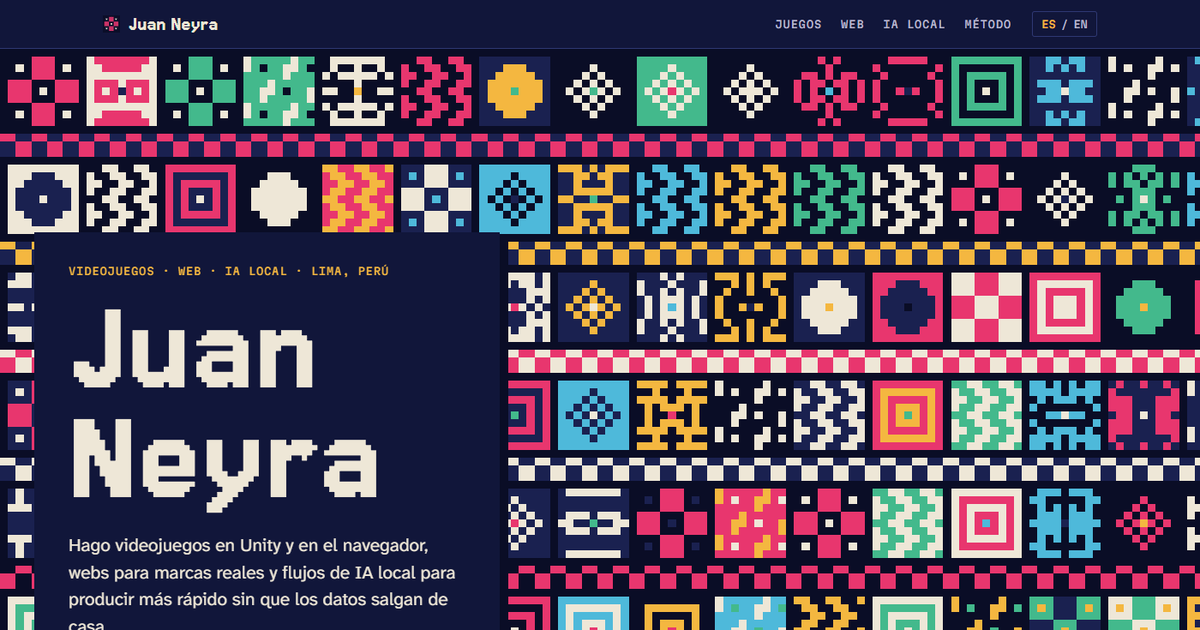
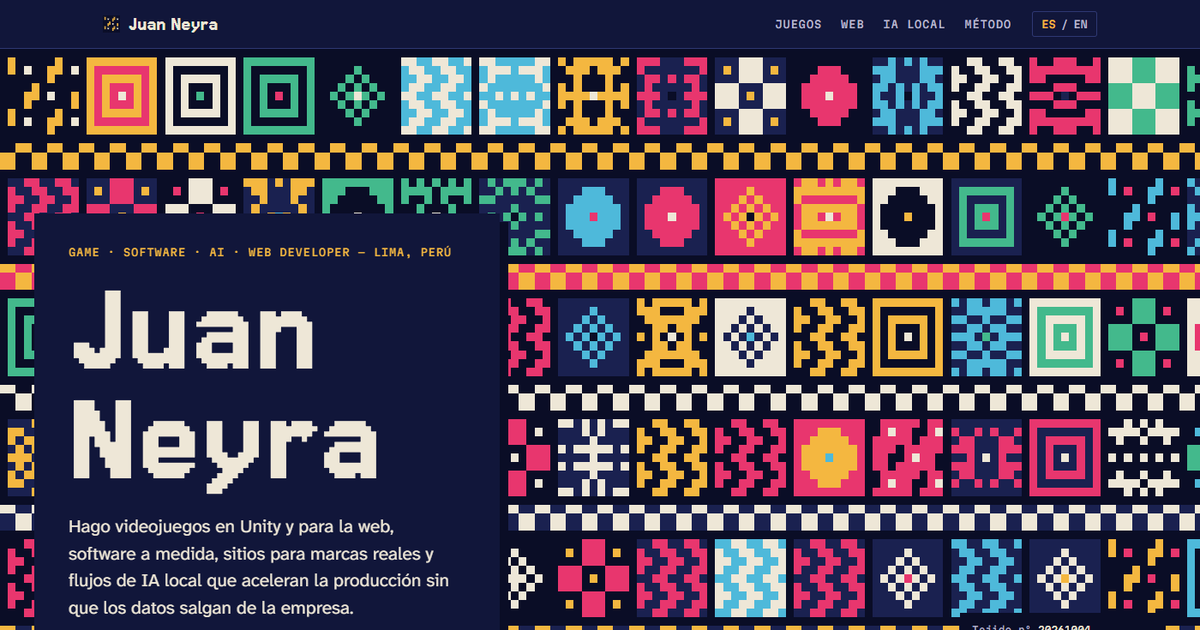
Presentación: Game · Software · AI · Web Developer
Nuevo titular de roles, texto de entrada, título, metadatos, imagen para
redes y README.

diff --git a/index.html b/index.html
@@ -3,9 +3,9 @@
 <head>
 <meta charset="utf-8">
 <meta name="viewport" content="width=device-width, initial-scale=1">
-<title>Juan Neyra · Juegos e IA local</title>
-<meta name="description" content="Portafolio de Juan Neyra: videojuegos en Unity y en el navegador, webs para marcas reales y flujos de IA local.">
-<meta property="og:title" content="Juan Neyra · Juegos e IA local">
+<title>Juan Neyra · Game, Software, AI & Web Developer</title>
+<meta name="description" content="Juan Neyra, Game Developer, Software Developer, AI Developer y Web Developer en Lima: videojuegos en Unity y para la web, sitios para marcas reales y flujos de IA local.">
+<meta property="og:title" content="Juan Neyra · Game, Software, AI &amp; Web Developer">
 <meta property="og:description" content="Videojuegos, webs para marcas reales y flujos de IA local para producir sin que los datos salgan de la empresa.">
 <meta property="og:image" content="https://kurusudes.github.io/img/og.png">
 <meta property="og:type" content="website">
@@ -43,7 +43,7 @@
   <section class="hero" aria-labelledby="hero-name">
     <canvas class="loom" aria-hidden="true"></canvas>
     <div class="hero__panel">
-      <p class="hero__role" data-i18n="hero.role">Desarrollador de videojuegos e IA local · Lima, Perú</p>
+      <p class="hero__role" data-i18n="hero.role">Game · Software · AI · Web Developer — Lima, Perú</p>
       <h1 class="hero__name" id="hero-name">Juan<br>Neyra</h1>
       <p class="hero__lead" data-i18n="hero.lead">Hago videojuegos en Unity y en el navegador, webs en 3D y herramientas de IA que corren en mi propia GPU.</p>
       <div class="hero__actions">

diff --git a/js/data.js b/js/data.js
@@ -252,8 +252,8 @@ window.CONTACT = [
 window.UI = {
   es: {
     'nav.games': 'Juegos', 'nav.web': 'Web', 'nav.ai': 'IA local', 'nav.method': 'Método',
-    'hero.role': 'Videojuegos · Web · IA local · Lima, Perú',
-    'hero.lead': 'Hago videojuegos en Unity y en el navegador, webs para marcas reales y flujos de IA local para producir más rápido sin que los datos salgan de casa.',
+    'hero.role': 'Game · Software · AI · Web Developer — Lima, Perú',
+    'hero.lead': 'Hago videojuegos en Unity y para la web, software a medida, sitios para marcas reales y flujos de IA local que aceleran la producción sin que los datos salgan de la empresa.',
     'hero.cta': 'Ver trabajos',
     'loom.label': 'Tejido nº',
     'loom.note': 'Se teje con código a partir de la fecha de hoy.',
@@ -276,8 +276,8 @@ window.UI = {
   },
   en: {
     'nav.games': 'Games', 'nav.web': 'Web', 'nav.ai': 'Local AI', 'nav.method': 'Method',
-    'hero.role': 'Games · Web · Local AI · Lima, Peru',
-    'hero.lead': 'I make games in Unity and for the browser, websites for real brands, and local AI workflows that speed up production without data leaving the building.',
+    'hero.role': 'Game · Software · AI · Web Developer — Lima, Peru',
+    'hero.lead': 'I build games in Unity and for the web, custom software, sites for real brands, and local AI workflows that speed up production without data leaving the company.',
     'hero.cta': 'See the work',
     'loom.label': 'Weave no.',
     'loom.note': 'Woven by code from today’s date.',

diff --git a/README.md b/README.md
@@ -1,6 +1,8 @@
 # kurusudes.github.io
 
-Portafolio de Juan Neyra: videojuegos, web e IA local.
+Portafolio de **Juan Neyra** — Game Developer · Software Developer · AI Developer · Web Developer (Lima, Perú).
+
+Videojuegos en Unity y para la web, sitios para marcas reales y flujos de IA local. En vivo: https://kurusudes.github.io
 
 Sitio estático, sin build: `index.html` + `css/` + `js/`. Se publica tal cual con GitHub Pages.
 
